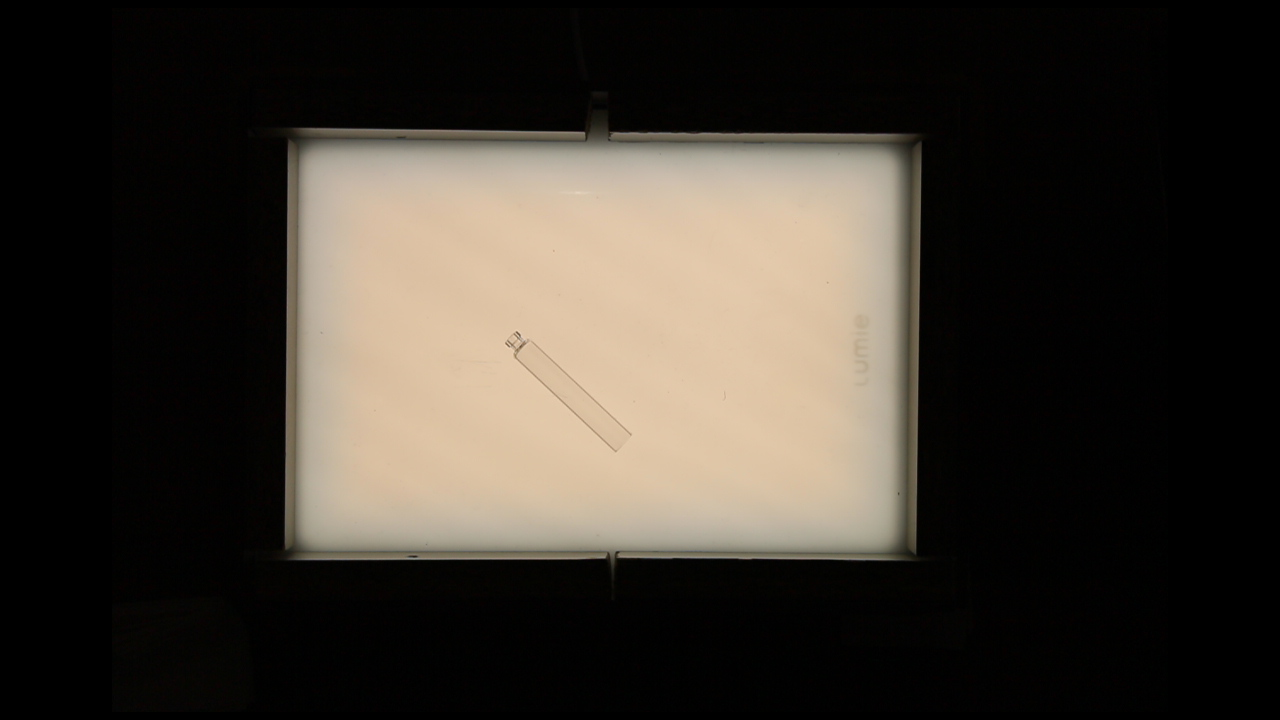
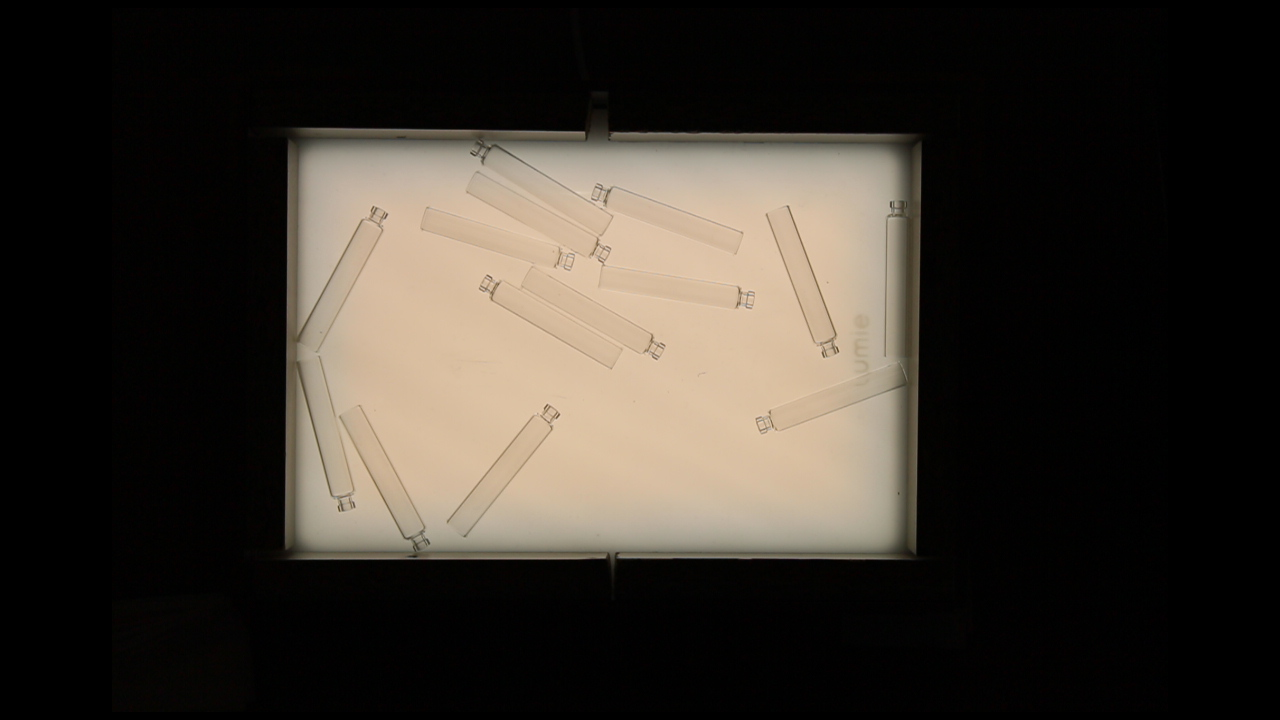
Template rotation close to image edge

diff --git a/GlassSegmentV1/LineSearchLib.py b/GlassSegmentV1/LineSearchLib.py
@@ -232,19 +232,35 @@ def HoughLinesSearch(img, houghLength=30, houghDist=5):
     cv2.waitKey(10)
     return glassSides
 
-def LineExtend(glassSides,lineLength=80):
+def LineExtend(glassSides,lineLength=120):
+    # line-pair = |slope1 = a rad | x1start | y1start | x1end | y1end | hyp | slope2 = b rad | x2start | y2start | x2end | y2end | hyp |
+    if glassSides[0,5] == glassSides[1,5]:
+        return glassSides
+    
+    if glassSides[0,5] < glassSides[1,5]:
+        lineExtend = 0
+        lineKeep = 1
+    else:
+        lineExtend = 1
+        lineKeep = 0
+        
+    
+    #pointDiststart = math.sqrt(glassSides[lineKeep, ])
+    
+    
+    
+    
     line0,line1 = False, False
     if glassSides[0,5]<lineLength:
         xDist0,yDist0,line0 = np.sin(math.atan(glassSides[0,0]))*lineLength, np.cos(math.atan(glassSides[0,0]))*lineLength,True
     else:
         pass
-        
+
     if glassSides[1,5]<lineLength:
         xDist1,yDist1,line1 = np.cos(math.atan(glassSides[1,0]))*lineLength, np.sin(math.atan(glassSides[1,0]))*lineLength,True
-        
     else:
-        pass   
-    
+        pass
+
     if abs(glassSides[0,1]-glassSides[1,1]) > abs(glassSides[0,3]-glassSides[1,3]):
         if line0==True:
             glassSides[0,1],glassSides[0,2] = glassSides[0,1]+np.round(xDist0), glassSides[0,2]+np.round(yDist0)
@@ -254,7 +270,7 @@ def LineExtend(glassSides,lineLength=80):
             glassSides[1,1],glassSides[1,2] = glassSides[1,1]+np.round(xDist1), glassSides[1,2]+np.round(yDist1)
         else:
             pass
-            
+
     elif abs(glassSides[0,1]-glassSides[1,1]) < abs(glassSides[0,3]-glassSides[1,3]):
         if line0==True:
             glassSides[0,3],glassSides[0,4] = glassSides[0,3]+np.round(xDist0), glassSides[0,4]+np.round(yDist0)
@@ -293,11 +309,11 @@ def grabberPoint(glassSides, UpDown, lineLength=22):
     line_perp = np.empty([2])
     x1 = np.empty([2])
     y1 = np.empty([2])
-    
-    
+
+
     grabPoint[0] = (glassSides[1] + glassSides[3]) / 2 # l1x
     grabPoint[1] = (glassSides[2] + glassSides[4]) / 2 # l1y
-    
+
     grabPoint_tmp[0] = (glassSides[7] + glassSides[9]) / 2 # l2x
     grabPoint_tmp[1] = (glassSides[8] + glassSides[10]) / 2 # l2y
     line = np.polyfit([glassSides[1], glassSides[3]],[glassSides[2], glassSides[4]], 1)
@@ -308,48 +324,49 @@ def grabberPoint(glassSides, UpDown, lineLength=22):
     x0 = grabPoint[0]
     y0 = grabPoint[1]
     d = lineLength
-    
+
     x1[0] = 1/(m**2+1)*(-b*m+m*y0-math.sqrt(d**2*m**2-m**2*x0**2-2*b*m*x0+2*m*x0*y0-b**2+2*b*y0+d**2-y0**2)+x0)
     x1[1] = 1/(m**2+1)*(-b*m+m*y0+math.sqrt(d**2*m**2-m**2*x0**2-2*b*m*x0+2*m*x0*y0-b**2+2*b*y0+d**2-y0**2)+x0)
     y1 = m * x1 + b
-    
+
     dist0 = math.sqrt((grabPoint_tmp[0] - x1[0])**2 + (grabPoint_tmp[1] - y1[0])**2)
     dist1 = math.sqrt((grabPoint_tmp[0] - x1[1])**2 + (grabPoint_tmp[1] - y1[1])**2)
-    
+
     if dist0 < dist1:
         grabPoint[2] = x1[0]
         grabPoint[3] = y1[0]
     else:
         grabPoint[2] = x1[1]
         grabPoint[3] = y1[1]
-    
+
 
     grabPoint[4] = (grabPoint[0] + grabPoint[2]) / 2
     grabPoint[5] = (grabPoint[1] + grabPoint[3]) / 2
     grabPointAngle = math.atan(m) - math.pi / 2
     if UpDown:
         grabPointAngle += math.pi
-    
+
     return grabPoint, grabPointAngle
 
 
-def templatematch(img, template, houghLocation, h_steps = 50, w_steps = 50):
+def templatematch(img, template, houghLocation, h_steps = 30, w_steps = 30):
     # * line-pair = |slope1 = a rad | x1start | y1start | x1end | y1end | hyp1 | slope2 = b rad | x2start | y2start | x2end | y2end | hyp2 |
-    if houghLocation.size < 7:
+    if houghLocation.size < 11:
         print("One or no lines found!")
         return None, 0
 
     slopes = np.array([houghLocation[0], houghLocation[6]])
-    pointsx = np.array([(houghLocation[1] + houghLocation[7]) / 2, (houghLocation[3] + houghLocation[9]) / 2])
-    pointsy = np.array([(houghLocation[2] + houghLocation[8]) / 2, (houghLocation[4] + houghLocation[10]) / 2])
-    max_idx = np.empty([1, 2])
 
-    if (np.amax(pointsx) + w_steps) > img.shape[1] or (np.amin(pointsx) - w_steps) < 0 or (np.amax(pointsy) + h_steps) > img.shape[0] or (np.amin(pointsy) - h_steps) < 0:
-        print("Tip outside boundary")
-        return None, 0
+    pointsy = min((houghLocation[2] + houghLocation[8]) / 2, (houghLocation[4] + houghLocation[10]) / 2)
+    pointidx = np.argmin(np.array([(houghLocation[2] + houghLocation[8]) / 2, (houghLocation[4] + houghLocation[10]) / 2]))
+    pointsx = np.array([(houghLocation[1] + houghLocation[7]) / 2, (houghLocation[3] + houghLocation[9]) / 2])
+    pointsx = pointsx[pointidx]
+
+    max_idx = np.empty([1, 2])
 
     slope_offset = math.degrees(math.atan(np.average(slopes)))
     slope_offset = 90 - abs(slope_offset)
+
     if slope_offset < 0:
         slope_offset += 45
 
@@ -357,84 +374,85 @@ def templatematch(img, template, houghLocation, h_steps = 50, w_steps = 50):
         slope_offset = -slope_offset
 
     template_rot = imutils.rotate_bound(template, slope_offset)
-    startPoint = np.argmin(pointsy)
-
 
     Yshifted = pointsy - template_rot.shape[0] / 2
     Xshifted = pointsx - template_rot.shape[1] / 2
-    #Yshifted = pointsy
-    #Xshifted = pointsx
-    
+
     # Do & operation in increments, that is moving the template image a few pixels right/down
     # for each iteration and store most pixel hits
     maxval = 0
     UpDown = 1 # 1 for up, 0 for down
     max_idx = np.zeros((2,1))
-    for h in np.arange(int(Yshifted[startPoint]) - int(h_steps/2), int(Yshifted[startPoint]) + int(h_steps/2), 1):
-        for w in np.arange(int(Xshifted[startPoint]) - int(w_steps/2), int(Xshifted[startPoint]) + int(w_steps/2), 1):
-            if h < 0 or w < 0 or h > (img.shape[0] - template_rot.shape[0]) or w > (img.shape[1] - template_rot.shape[1]):
-                return None
+    for h in np.arange(int(Yshifted) - int(h_steps/2), int(Yshifted) + int(h_steps/2), 1):
+        for w in np.arange(int(Xshifted) - int(w_steps/2), int(Xshifted) + int(w_steps/2), 1):
+            if h < 0 or h > img.shape[0] or w < 0 or w > img.shape[1]:
+                break
             matches = np.logical_and(img[h : h + template_rot.shape[0], w : w + template_rot.shape[1]], template_rot)
             matches = np.count_nonzero(matches)
             if matches >= maxval:
                 maxval = matches
                 max_idx = [h, w]
-            rotatingim = np.copy(img)
-            rotatingim[h : h + template_rot.shape[0], w : w + template_rot.shape[1]] = template_rot
-            cv2.imshow('Rotating progress', rotatingim)
-            cv2.waitKey(5)
+            #rotatingim = np.copy(img)
+            #rotatingim[h : h + template_rot.shape[0], w : w + template_rot.shape[1]] = template_rot
+            #cv2.imshow('Rotating progress', rotatingim)
+            #cv2.waitKey(5)
 
     template_rot = imutils.rotate_bound(template_rot, 180) # Rotate template by 180 deg
-    for h in np.arange(int(Yshifted[startPoint]) - int(h_steps/2), int(Yshifted[startPoint]) + int(h_steps/2), 1):
-        for w in np.arange(int(Xshifted[startPoint]) - int(w_steps/2), int(Xshifted[startPoint]) + int(w_steps/2), 1):
-            if h < 0 or w < 0 or h > (img.shape[0] - template_rot.shape[0]) or w > (img.shape[1] - template_rot.shape[1]):
-                return None
+    for h in np.arange(int(Yshifted) - int(h_steps/2), int(Yshifted) + int(h_steps/2), 1):
+        for w in np.arange(int(Xshifted) - int(w_steps/2), int(Xshifted) + int(w_steps/2), 1):
+            if h < 0 or h > img.shape[0] or w < 0 or w > img.shape[1]:
+                break
             matches = np.logical_and(img[h : h + template_rot.shape[0], w : w + template_rot.shape[1]], template_rot)
             matches = np.count_nonzero(matches)
             if matches >= maxval:
                 maxval = matches
                 max_idx = [h, w]
                 UpDown = 0
-            rotatingim = np.copy(img)
-            rotatingim[h : h + template_rot.shape[0], w : w + template_rot.shape[1]] = template_rot
-            cv2.imshow('Rotating progress', rotatingim)
-            cv2.waitKey(5)
-
-    startPoint = np.argmax(pointsy)
+            #rotatingim = np.copy(img)
+            #rotatingim[h : h + template_rot.shape[0], w : w + template_rot.shape[1]] = template_rot
+            #cv2.imshow('Rotating progress', rotatingim)
+            #cv2.waitKey(5)
 
     template_rot = imutils.rotate_bound(template_rot, 180) # Rotate template by 180 deg
 
-    for h in np.arange(int(Yshifted[startPoint]) + int(h_steps/2), int(Yshifted[startPoint]) - int(h_steps/2), -1):
-        for w in np.arange(int(Xshifted[startPoint]) + int(w_steps/2), int(Xshifted[startPoint]) - int(w_steps/2), -1):
-            if h < 0 or w < 0 or h > (img.shape[0] - template_rot.shape[0]) or w > (img.shape[1] - template_rot.shape[1]):
-                return None
+    pointsy = max((houghLocation[2] + houghLocation[8]) / 2, (houghLocation[4] + houghLocation[10]) / 2)
+    pointidx = np.argmax(np.array([(houghLocation[2] + houghLocation[8]) / 2, (houghLocation[4] + houghLocation[10]) / 2]))
+    pointsx = np.array([(houghLocation[1] + houghLocation[7]) / 2, (houghLocation[3] + houghLocation[9]) / 2])
+    pointsx = pointsx[pointidx]
+    Yshifted = pointsy - template_rot.shape[0] / 2
+    Xshifted = pointsx - template_rot.shape[1] / 2
+
+    for h in np.arange(int(Yshifted) + int(h_steps/2), int(Yshifted) - int(h_steps/2), -1):
+        for w in np.arange(int(Xshifted) + int(w_steps/2), int(Xshifted) - int(w_steps/2), -1):
+            if h < 0 or h > img.shape[0] or w < 0 or w > img.shape[1]:
+                break
             matches = np.logical_and(img[h : h + template_rot.shape[0], w : w + template_rot.shape[1]], template_rot)
             matches = np.count_nonzero(matches)
             if matches >= maxval:
                 UpDown = 1 # 1 for up, 0 for down
                 maxval = matches
                 max_idx = [h, w]
-            rotatingim = np.copy(img)
-            rotatingim[h : h + template_rot.shape[0], w : w + template_rot.shape[1]] = template_rot
-            cv2.imshow('Rotating progress', rotatingim)
-            cv2.waitKey(5)
+            #rotatingim = np.copy(img)
+            #rotatingim[h : h + template_rot.shape[0], w : w + template_rot.shape[1]] = template_rot
+            #cv2.imshow('Rotating progress', rotatingim)
+            #cv2.waitKey(5)
 
     template_rot = imutils.rotate_bound(template_rot, 180) # Rotate template by 180 deg
 
-    for h in np.arange(int(Yshifted[startPoint]) + int(h_steps/2), int(Yshifted[startPoint]) - int(h_steps/2), -1):
-        for w in np.arange(int(Xshifted[startPoint]) + int(w_steps/2), int(Xshifted[startPoint]) - int(w_steps/2), -1):
-            if h < 0 or w < 0 or h > (img.shape[0] - template_rot.shape[0]) or w > (img.shape[1] - template_rot.shape[1]):
-                return None
+    for h in np.arange(int(Yshifted) + int(h_steps/2), int(Yshifted) - int(h_steps/2), -1):
+        for w in np.arange(int(Xshifted) + int(w_steps/2), int(Xshifted) - int(w_steps/2), -1):
+            if h < 0 or h > img.shape[0] or w < 0 or w > img.shape[1]:
+                break
             matches = np.logical_and(img[h : h + template_rot.shape[0], w : w + template_rot.shape[1]], template_rot)
             matches = np.count_nonzero(matches)
             if matches >= maxval:
                 UpDown = 0 # 1 for up, 0 for down
                 maxval = matches
                 max_idx = [h, w]
-            rotatingim = np.copy(img)
-            rotatingim[h : h + template_rot.shape[0], w : w + template_rot.shape[1]] = template_rot
-            cv2.imshow('Rotating progress', rotatingim)
-            cv2.waitKey(5)
+            #rotatingim = np.copy(img)
+            #rotatingim[h : h + template_rot.shape[0], w : w + template_rot.shape[1]] = template_rot
+            #cv2.imshow('Rotating progress', rotatingim)
+            #cv2.waitKey(5)
             
     max_h = int(max_idx[0])
     max_w = int(max_idx[1])

diff --git a/GlassSegmentV1/GlassSegmentV1.py b/GlassSegmentV1/GlassSegmentV1.py
@@ -61,7 +61,7 @@ while True:
         ret, img = cam.read()
         if not ret or img.shape != (720, 1280, 3):
             #img = cv2.imread('./images/opencv_frame_6_marked.png')
-            img = cv2.imread('./final_images/final_setup_5.png')
+            img = cv2.imread('./final_images/final_setup_16.png')
             offlineFlag = True
             cam.release()
         print("Press key to start, ESC to exit")
@@ -109,6 +109,8 @@ while True:
             statemsg = False
             if edges_hough is not None:
                 houghLocation = np.ndarray.flatten(edges_hough)
+                houghLocation = ls.LineExtend(edges_hough)
+                houghLocation = np.ndarray.flatten(houghLocation)
                 final, UpDown = ls.templatematch(img_binary, template, houghLocation)
                 if final is not None:
                     statemsg = False
